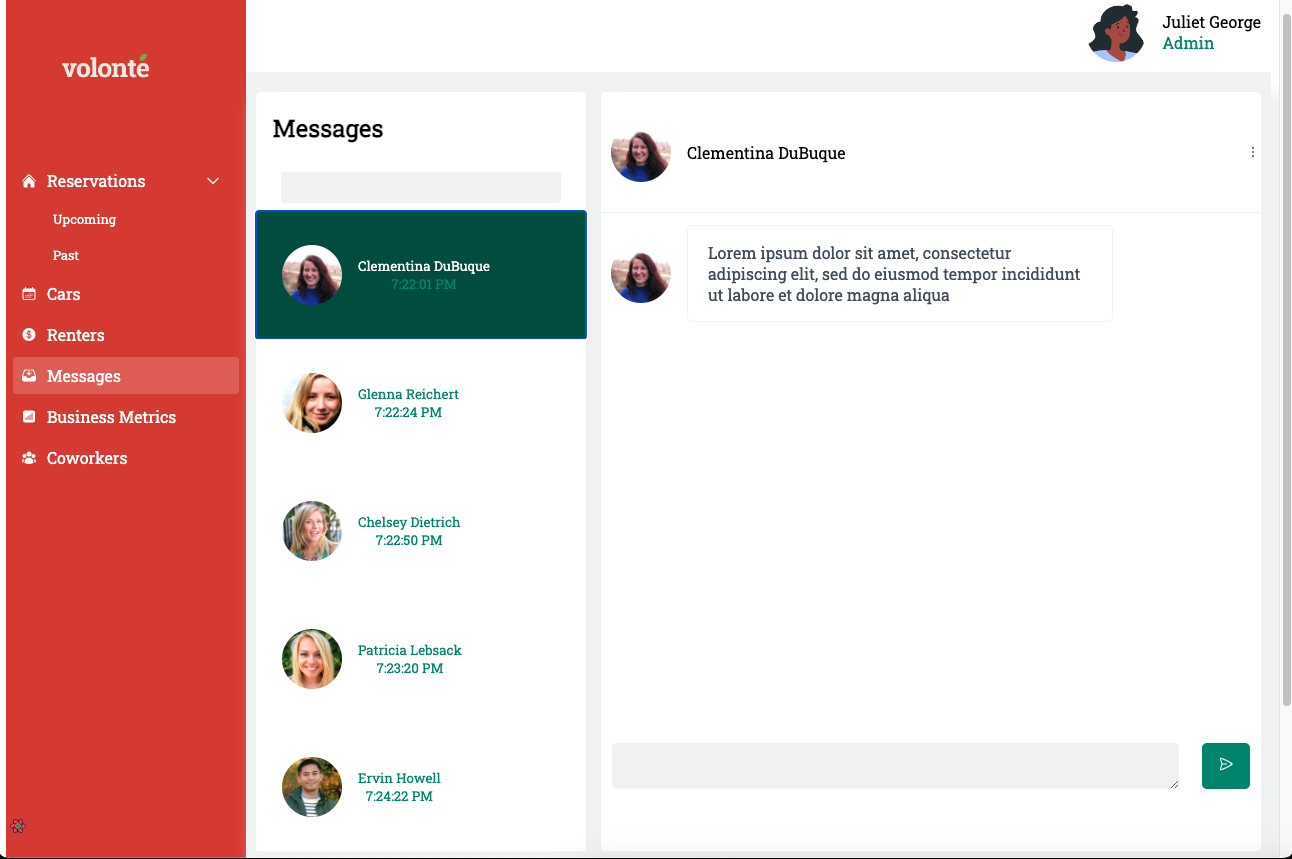
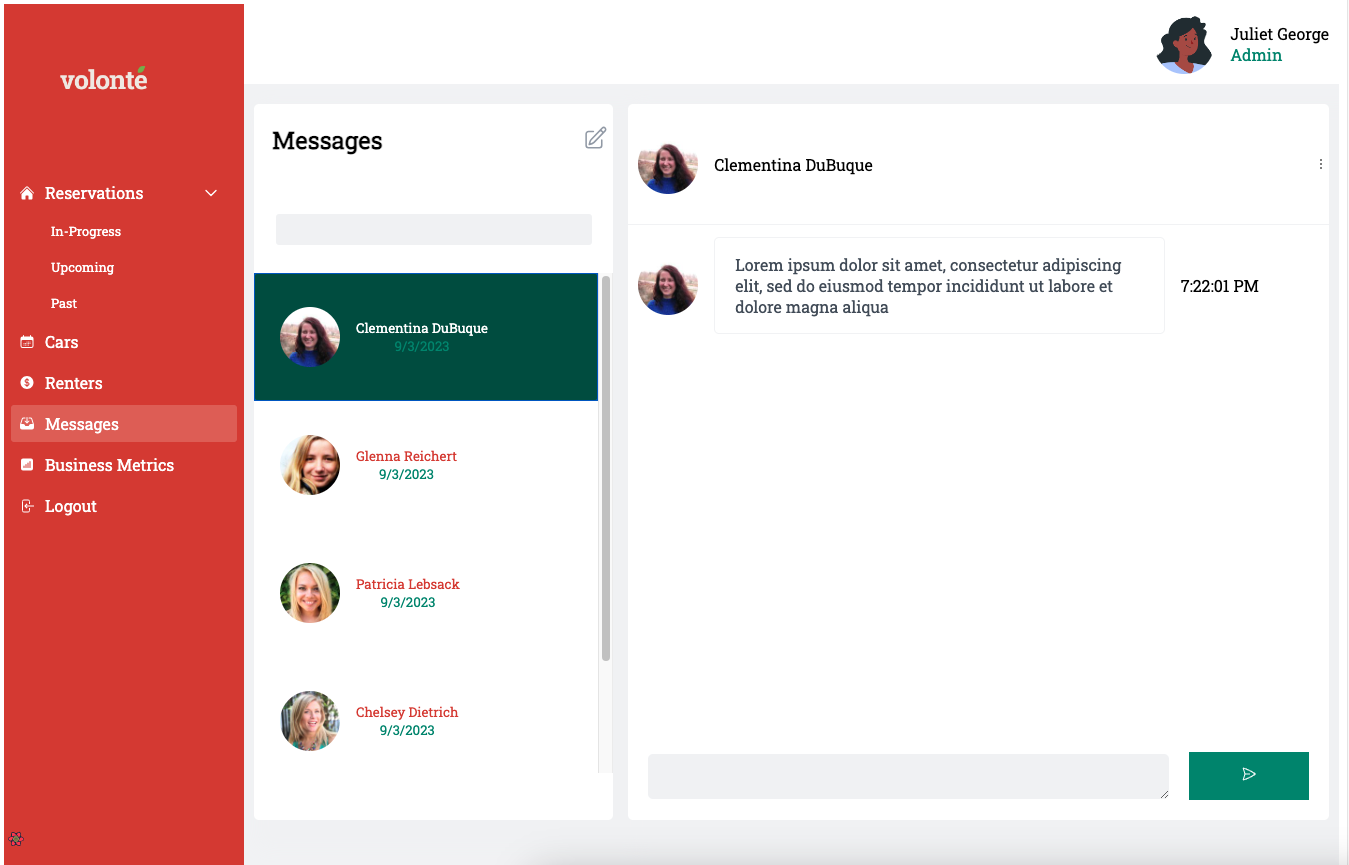
update messages pic

diff --git a/car-rental-management/src/components/ui/H2.jsx b/car-rental-management/src/components/ui/H2.jsx
@@ -5,4 +5,5 @@ export const H2 = styled.h2`
   width: 90%;
   gap: 60%;
   align-self: center;
+  justify-content: space-between;
 `;
